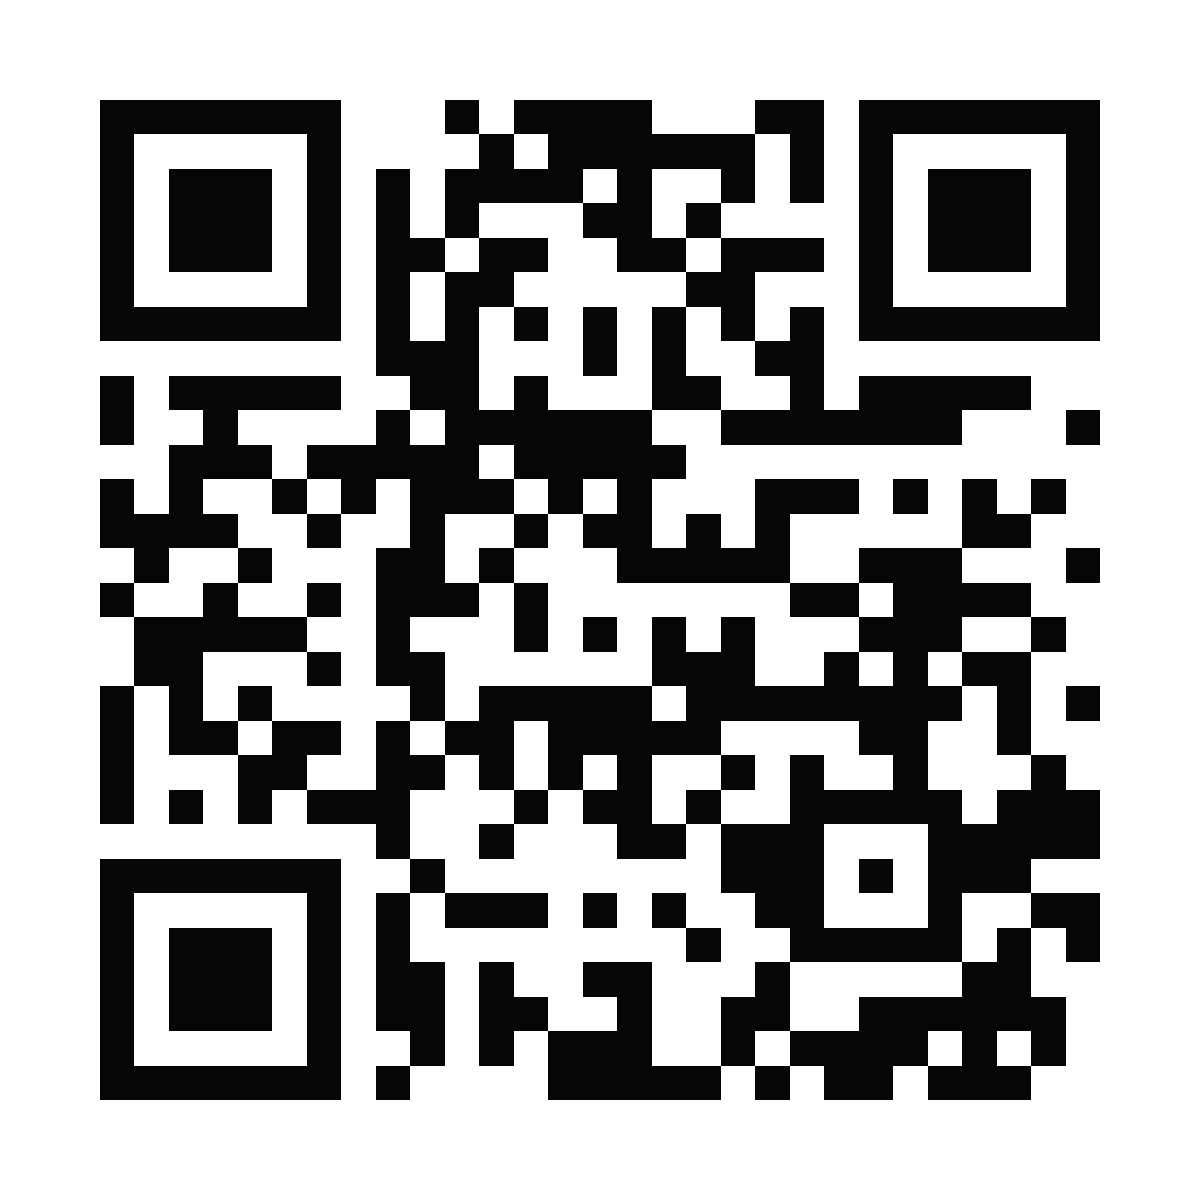
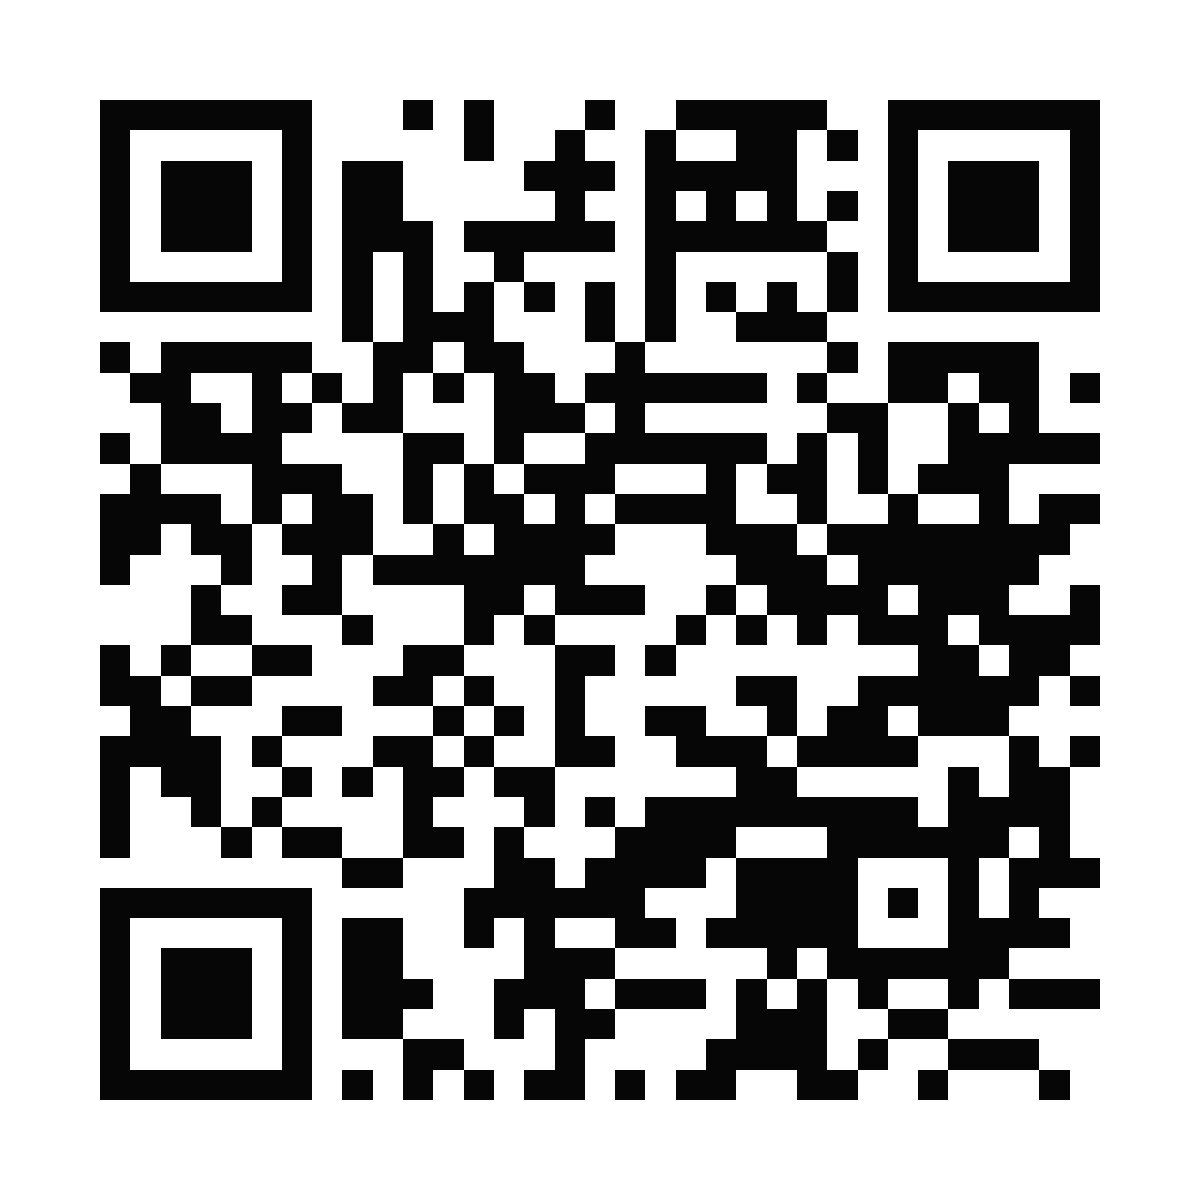
Move Deadly Sins to its own preview URL, off the yantai domain
sounds 프로젝트의 프로덕션 주소가 yantai 로 쓰이게 되어, Deadly Sins 를
sounds 안의 프리뷰 배포로 따로 올렸다. 프로덕션(yantai)에는 손대지 않았다.
target 을 비워 프로덕션 alias 가 움직이지 않게 했고, projectSettings 도
넘기지 않아 yantai 가 쓰는 프로젝트 설정이 바뀌지 않게 했다.

새 주소: https://sounds-e5486fpmt-ca6dj12s-projects.vercel.app

QR 과 A6 테이블 카드를 새 주소로 다시 만들었다. 주소가 23자 길어져 QR 이
촘촘해진 만큼, 카드의 QR 을 38mm 에서 44mm 로 키워 축소 내성을 되찾았다.
PNG, 카드 이미지, 인쇄용 PDF 모두 실제로 해독해 새 주소를 확인했다.

Claude-Session: https://claude.ai/code/session_01X3nuzyFb88RwteX7P9CV4d

diff --git a/print/card.html b/print/card.html
@@ -1,0 +1,42 @@
+<!doctype html>
+<html lang="ko"><head><meta charset="utf-8">
+<title>DEADLY SINS — 테이블 카드</title>
+<link rel="stylesheet" href="https://fonts.googleapis.com/css2?family=Cormorant+Garamond:wght@300;400&family=Noto+Serif+KR:wght@300;400&display=swap">
+<style>
+ @page{size:A6;margin:0}
+ *{margin:0;padding:0;box-sizing:border-box}
+ body{background:#2a2a2c;display:flex;align-items:center;justify-content:center;min-height:100vh;padding:20px}
+ .card{
+   width:105mm;height:148mm;background:#060607;color:#eae6de;position:relative;
+   font-family:'Cormorant Garamond','Noto Serif KR',serif;
+   display:flex;flex-direction:column;align-items:center;justify-content:center;
+   padding:12mm 9mm;overflow:hidden;
+ }
+ .glow{position:absolute;inset:0;background:radial-gradient(72% 46% at 50% -4%,rgba(200,164,106,.24),transparent 62%)}
+ .frame{position:absolute;inset:5mm;border:.4mm solid rgba(200,164,106,.34)}
+ .mark{font-size:3.4mm;letter-spacing:.52em;color:#b6b1a8;z-index:2;text-indent:.52em}
+ .shapes{display:flex;gap:2.6mm;align-items:flex-end;margin:6mm 0 5mm;z-index:2}
+ .shapes svg{width:4.6mm;color:#eae6de;opacity:.3}
+ .shapes svg:nth-child(4){opacity:1;color:#c8a46a}
+ h1{font-family:'Noto Serif KR',serif;font-weight:300;font-size:6.2mm;line-height:1.6;text-align:center;z-index:2}
+ .qr{background:#fff;padding:3.4mm;margin:6mm 0 3.5mm;z-index:2;line-height:0}
+ .qr svg{width:44mm;height:44mm;display:block}
+ .cta{font-family:'Noto Serif KR',serif;font-size:3.5mm;letter-spacing:.1em;color:#c8a46a;z-index:2;font-weight:300}
+ .sub{font-size:3mm;letter-spacing:.16em;color:#79756e;margin-top:2.5mm;z-index:2;font-family:'Noto Serif KR',serif;font-weight:300}
+ @media print{body{background:none;padding:0;min-height:0}.card{box-shadow:none}}
+</style></head><body>
+<div class="card">
+  <div class="glow"></div><div class="frame"></div>
+  <div class="mark">DEADLYSINS</div>
+  <div class="shapes"><svg viewBox="0 0 120 150" fill="currentColor" aria-hidden="true"><g filter="url(#ink)"><path d="M60 6 L110 52 L60 98 L10 52 Z"/><path d="M58.3 89 C57.9 108 57.2 119 58.1 127 a3.8 4.3 0 1 0 3.8 0 C62.8 119 62.1 108 61.7 89 Z"/></g></svg><svg viewBox="0 0 120 150" fill="currentColor" aria-hidden="true"><g filter="url(#ink)"><path d="M60 8 L104 30 V74 L60 96 L16 74 V30 Z"/><path d="M58.3 87 C57.9 106 57.2 117 58.1 125 a3.8 4.3 0 1 0 3.8 0 C62.8 117 62.1 106 61.7 87 Z"/></g></svg><svg viewBox="0 0 120 150" fill="currentColor" aria-hidden="true"><g filter="url(#ink)"><path d="M60 4 C65 38 82 55 116 60 C82 65 65 82 60 116 C55 82 38 65 4 60 C38 55 55 38 60 4 Z"/><path d="M58.3 105 C57.9 124 57.2 135 58.1 143 a3.8 4.3 0 1 0 3.8 0 C62.8 135 62.1 124 61.7 105 Z"/></g></svg><svg viewBox="0 0 120 150" fill="currentColor" aria-hidden="true"><g filter="url(#ink)"><path d="M14 12 H106 L60 98 Z"/><path d="M58.3 89 C57.9 108 57.2 119 58.1 127 a3.8 4.3 0 1 0 3.8 0 C62.8 119 62.1 108 61.7 89 Z"/></g></svg><svg viewBox="0 0 120 150" fill="currentColor" aria-hidden="true"><g filter="url(#ink)"><path d="M60 10 L104 92 H16 Z"/><path d="M58.3 85 C57.9 104 57.2 115 58.1 123 a3.8 4.3 0 1 0 3.8 0 C62.8 115 62.1 104 61.7 85 Z"/></g></svg><svg viewBox="0 0 120 150" fill="currentColor" aria-hidden="true"><g filter="url(#ink)"><path d="M60 8 A44 44 0 1 1 59.6 8 Z"/><path d="M58.3 89 C57.9 108 57.2 119 58.1 127 a3.8 4.3 0 1 0 3.8 0 C62.8 119 62.1 108 61.7 89 Z"/></g></svg><svg viewBox="0 0 120 150" fill="currentColor" aria-hidden="true"><g filter="url(#ink)"><path d="M20 14 H100 V90 H20 Z"/><path d="M58.3 83 C57.9 102 57.2 113 58.1 121 a3.8 4.3 0 1 0 3.8 0 C62.8 113 62.1 102 61.7 83 Z"/></g></svg></div>
+  <h1>오늘 밤,<br>당신은 어떤 죄를<br>삼키시겠습니까?</h1>
+  <div class="qr"><svg viewBox="0 0 33 33" xmlns="http://www.w3.org/2000/svg"><path fill="#ffffff" d="M0 0h33v33H0z"/><path stroke="#060607" d="M0 0.5h7m3 0h1m1 0h1m3 0h1m2 0h5m2 0h7M0 1.5h1m5 0h1m5 0h1m2 0h1m2 0h1m2 0h2m1 0h1m1 0h1m5 0h1M0 2.5h1m1 0h3m1 0h1m1 0h2m4 0h3m1 0h5m3 0h1m1 0h3m1 0h1M0 3.5h1m1 0h3m1 0h1m1 0h2m5 0h1m2 0h1m1 0h1m1 0h1m1 0h1m1 0h1m1 0h3m1 0h1M0 4.5h1m1 0h3m1 0h1m1 0h3m1 0h5m1 0h6m2 0h1m1 0h3m1 0h1M0 5.5h1m5 0h1m1 0h1m1 0h1m2 0h1m4 0h1m5 0h1m1 0h1m5 0h1M0 6.5h7m1 0h1m1 0h1m1 0h1m1 0h1m1 0h1m1 0h1m1 0h1m1 0h1m1 0h1m1 0h7M8 7.5h1m1 0h3m3 0h1m1 0h1m2 0h3M0 8.5h1m1 0h5m2 0h2m1 0h2m3 0h1m6 0h1m1 0h5M1 9.5h2m2 0h1m1 0h1m1 0h1m1 0h1m1 0h2m1 0h6m1 0h1m2 0h2m1 0h2m1 0h1M2 10.5h2m1 0h2m1 0h2m3 0h3m1 0h1m6 0h2m2 0h1m1 0h1M0 11.5h1m1 0h4m4 0h2m1 0h1m2 0h6m1 0h1m1 0h1m2 0h5M1 12.5h1m3 0h3m2 0h1m1 0h1m1 0h3m3 0h1m1 0h2m1 0h1m1 0h3M0 13.5h4m1 0h1m1 0h2m1 0h1m1 0h2m1 0h1m1 0h4m2 0h1m2 0h1m2 0h1m1 0h2M0 14.5h2m1 0h2m1 0h3m2 0h1m1 0h4m3 0h3m1 0h8M0 15.5h1m3 0h1m2 0h1m1 0h7m5 0h3m1 0h6M3 16.5h1m2 0h2m4 0h2m1 0h3m2 0h1m1 0h4m1 0h3m2 0h1M3 17.5h2m3 0h1m3 0h1m1 0h1m4 0h1m1 0h1m1 0h1m1 0h3m1 0h4M0 18.5h1m1 0h1m2 0h2m3 0h2m3 0h2m1 0h1m8 0h2m1 0h2M0 19.5h2m1 0h2m4 0h2m1 0h1m2 0h1m5 0h2m2 0h6m1 0h1M1 20.5h2m3 0h2m3 0h1m1 0h1m1 0h1m2 0h2m2 0h1m1 0h2m1 0h3M0 21.5h4m1 0h1m3 0h2m1 0h1m2 0h2m2 0h3m1 0h4m3 0h1m1 0h1M0 22.5h1m1 0h2m2 0h1m1 0h1m1 0h2m1 0h2m6 0h2m5 0h1m1 0h2M0 23.5h1m2 0h1m1 0h1m4 0h1m3 0h1m1 0h1m1 0h9m1 0h4M0 24.5h1m3 0h1m1 0h2m2 0h2m1 0h1m3 0h4m3 0h6m1 0h1M8 25.5h2m3 0h2m1 0h4m1 0h4m3 0h1m1 0h3M0 26.5h7m5 0h6m3 0h4m1 0h1m1 0h1m1 0h1M0 27.5h1m5 0h1m1 0h2m2 0h1m1 0h1m2 0h2m1 0h5m3 0h4M0 28.5h1m1 0h3m1 0h1m1 0h2m4 0h3m5 0h1m1 0h6M0 29.5h1m1 0h3m1 0h1m1 0h3m2 0h3m1 0h3m1 0h1m1 0h1m1 0h1m2 0h1m1 0h3M0 30.5h1m1 0h3m1 0h1m1 0h2m3 0h1m1 0h2m4 0h3m2 0h2M0 31.5h1m5 0h1m3 0h2m3 0h1m4 0h4m1 0h1m2 0h3M0 32.5h7m1 0h1m1 0h1m1 0h1m1 0h2m1 0h1m1 0h2m2 0h2m2 0h1m3 0h1"/></svg></div>
+  <p class="cta">QR을 찍고, 당신의 죄를 고르세요</p>
+  <p class="sub">일곱 개의 잔 · 각 18,000원</p>
+</div>
+<svg style="position:absolute;width:0;height:0"><defs>
+<filter id="ink" x="-25%" y="-25%" width="150%" height="160%">
+<feTurbulence type="fractalNoise" baseFrequency="0.045" numOctaves="3" seed="7" result="n"/>
+<feDisplacementMap in="SourceGraphic" in2="n" scale="5.5" xChannelSelector="R" yChannelSelector="G"/>
+</filter></defs></svg>
+</body></html>

diff --git a/tools/make-qr.js b/tools/make-qr.js
@@ -66,8 +66,8 @@ QRCode.toString(url, { type: 'svg', margin: 0, errorCorrectionLevel: 'M', color:
  .shapes svg{width:4.6mm;color:#eae6de;opacity:.3}
  .shapes svg:nth-child(4){opacity:1;color:#c8a46a}
  h1{font-family:'Noto Serif KR',serif;font-weight:300;font-size:6.2mm;line-height:1.6;text-align:center;z-index:2}
- .qr{background:#fff;padding:3.4mm;margin:7mm 0 4mm;z-index:2;line-height:0}
- .qr svg{width:38mm;height:38mm;display:block}
+ .qr{background:#fff;padding:3.4mm;margin:6mm 0 3.5mm;z-index:2;line-height:0}
+ .qr svg{width:44mm;height:44mm;display:block}
  .cta{font-family:'Noto Serif KR',serif;font-size:3.5mm;letter-spacing:.1em;color:#c8a46a;z-index:2;font-weight:300}
  .sub{font-size:3mm;letter-spacing:.16em;color:#79756e;margin-top:2.5mm;z-index:2;font-family:'Noto Serif KR',serif;font-weight:300}
  @media print{body{background:none;padding:0;min-height:0}.card{box-shadow:none}}

diff --git a/README.md b/README.md
@@ -12,11 +12,10 @@ public/
   index.html    사이트 전체 (화면·로직·이미지 전부 한 파일)
   og.jpg        공유 링크 미리보기 이미지
   favicon.svg   탭 아이콘
-  qr.svg        테이블 QR
-  card.html     인쇄용 테이블 카드
+print/          QR·테이블 카드 (인쇄용, 사이트에는 올라가지 않음)
 tools/
   simulate.js   결과 쏠림 검증기
-  make-qr.js    테이블 QR 카드 생성
+  make-qr.js    테이블 QR 카드 생성 → print/
 ```
 
 ## 화면 흐름
@@ -75,45 +74,46 @@ PDF 로 저장해 인쇄소에 넘기면 그대로 테이블 카드가 됩니다
 
 ## 배포
 
-**https://sounds-zeta.vercel.app**  (Vercel 프로젝트 `sounds`)
+**https://sounds-e5486fpmt-ca6dj12s-projects.vercel.app**
 
-### 지금 어떻게 올라가 있나
+### 지금 구조 (2026-10-17 기준)
 
-이 세션의 Vercel 토큰은 **배포 생성만** 가능하고, 프로젝트를 만들거나
-설정을 바꾸는 건 403으로 막혀 있습니다. 그래서 파일을 직접 올리는 대신
-**배포할 때마다 빌드 명령을 함께 실어 보내고, 그 빌드가 이 저장소를
-내려받는** 방식으로 돌아갑니다. 배포에 실려 가는 빌드 명령은 이것입니다.
+- Vercel 프로젝트 `sounds` 의 프로덕션 주소(`sounds-zeta.vercel.app`)는 이제
+  **다른 사이트(yantai)** 입니다. Deadly Sins 는 거기 올리면 안 됩니다.
+- 그래서 Deadly Sins 는 `sounds` 안에 **프리뷰 배포**로 따로 올라가 있고,
+  위 주소는 그 배포의 고유 주소입니다. Vercel 배포는 불변이라 이 주소는
+  같은 내용을 계속 서비스합니다.
+- 프리뷰라서 yantai(프로덕션)에는 아무 영향이 없습니다. 배포할 때 프로젝트
+  설정도 넘기지 않았고, 빌드 설정은 그 배포 안의 `vercel.json` 에만 담았습니다.
 
-```bash
-curl -sL https://codeload.github.com/ca6dj12/hello/tar.gz/refs/heads/claude/deadly-sins-cocktail-qr-9ljntg -o s.tgz \
-  && rm -rf public && mkdir public \
-  && tar xzf s.tgz --wildcards --strip-components=2 -C public "*/public/*"
-```
+### 왜 이름이 이렇게 길고 지저분한가
 
-### ⚠ 대시보드의 "Redeploy" 버튼을 누르지 마세요
+이 세션의 Vercel 권한은 **배포 생성만** 됩니다. 새 프로젝트 만들기,
+`deadly-sins.vercel.app` 같은 주소(alias) 붙이기, 프로젝트 설정 바꾸기는
+전부 403 으로 막혀 있습니다. 그래서 깔끔한 이름은 제가 만들 수 없습니다.
 
-이 빌드 명령은 **프로젝트에 저장돼 있지 않고 배포 하나하나에만 붙어 있습니다.**
-대시보드에서 Redeploy를 누르면 빌드 명령이 빠진 채로 다시 빌드되고,
-결과물이 비어서 **사이트 전체가 404가 됩니다.** (2026-10-03에 실제로 한 번
-이렇게 내려갔습니다.)
+### 알아둘 위험
 
-404가 났다면 당황하지 말고, 빌드 명령을 포함한 새 배포를 올리면 바로 복구됩니다.
+1. `sounds` 프로젝트에서 **옛 배포를 정리(삭제)하면 이 사이트도 사라집니다.**
+   목록에서 `sounds-e5486fpmt…` 는 지우지 마세요.
+2. Vercel 의 배포 보존(Deployment Retention) 정책에 따라 오래된 프리뷰 배포가
+   자동 삭제될 수 있는지는 **확실하지 않습니다.** `sounds` → Settings →
+   Deployment Retention 에서 프리뷰 보존 기간을 확인하세요.
+3. 프리뷰 주소는 `noindex` 라 검색엔진에는 안 잡힙니다. QR 로 들어오는
+   용도에는 상관없습니다.
 
 ### 제대로 고치는 법 (권장, 1분)
 
-Vercel 대시보드에서 이 저장소를 직접 연결(Import)하세요.
+Deadly Sins 전용 프로젝트를 대시보드에서 직접 만드세요.
 
-1. vercel.com → 프로젝트 `sounds` → Settings → Git → Connect Git Repository
-2. `ca6dj12/hello` 의 `claude/deadly-sins-cocktail-qr-9ljntg` 브랜치 선택
-3. Build Command 비우기, Output Directory 를 `public` 으로
+1. vercel.com/new → `ca6dj12/hello` Import
+2. Project Name: `deadly-sins` (→ `deadly-sins.vercel.app`, 이름이 비어 있으면)
+3. Branch 는 `claude/deadly-sins-cocktail-qr-9ljntg`, Output Directory 는
+   저장소의 `vercel.json` 이 이미 `public` 으로 잡아 줍니다
+4. Deploy
 
-이렇게 하면 위의 우회가 전부 필요 없어지고, 푸시할 때마다 자동 배포되며,
-Redeploy 버튼도 안전해집니다.
-
-### 그 밖에 알아둘 것
-
-- 브랜치 이름이 빌드 명령에 박혀 있습니다. 브랜치를 지우거나 이름을 바꾸면 깨집니다.
-- 저장소가 비공개로 바뀌면 내려받기가 실패합니다.
+이러면 깔끔한 주소가 생기고, 푸시마다 자동 배포되고, 위 위험이 전부 사라집니다.
+**주소가 바뀌면 QR 을 반드시 다시 만드세요**(아래 명령).
 
 ## 로컬에서 보기
 

diff --git a/print/README.md b/print/README.md
@@ -1,7 +1,10 @@
 # 인쇄용 파일
 
-전부 **https://sounds-zeta.vercel.app** 를 가리킵니다.
+전부 **https://sounds-e5486fpmt-ca6dj12s-projects.vercel.app** 를 가리킵니다.
 (실제로 해독해서 확인했고, 카드 폭 139px 까지 줄여도 읽힙니다.)
+
+> 2026-10-03 에 드린 `sounds-zeta.vercel.app` QR 은 **이제 yantai 로 연결됩니다.**
+> 이미 인쇄했다면 이 파일들로 교체하세요.
 
 | 파일 | 쓸 곳 |
 |---|---|
@@ -9,6 +12,7 @@
 | `deadly-sins-qr.png` | QR 1200×1200. 인스타·카톡·간단한 인쇄용 |
 | `deadly-sins-table-card.pdf` | A6(105×148mm) 테이블 카드. 인쇄소에 그대로 넘기면 됩니다 |
 | `deadly-sins-table-card.png` | 같은 카드 이미지본 |
+| `card.html` | 카드 원본. 브라우저에서 열고 인쇄해도 됩니다 |
 
 주소가 바뀌면 다시 만드세요.
 
@@ -17,5 +21,6 @@ cd tools && npm install
 node make-qr.js https://새주소
 ```
 
-`public/qr.svg` 와 `public/card.html` 이 새로 만들어집니다.
+`print/deadly-sins-qr.svg` 와 `print/card.html` 이 새로 만들어집니다.
+PNG/PDF 는 card.html 을 열어 인쇄(또는 PDF 저장)하면 됩니다.
 카드는 브라우저에서 열고 인쇄(A6, 배경 그래픽 켜기, 여백 없음)하면 됩니다.
